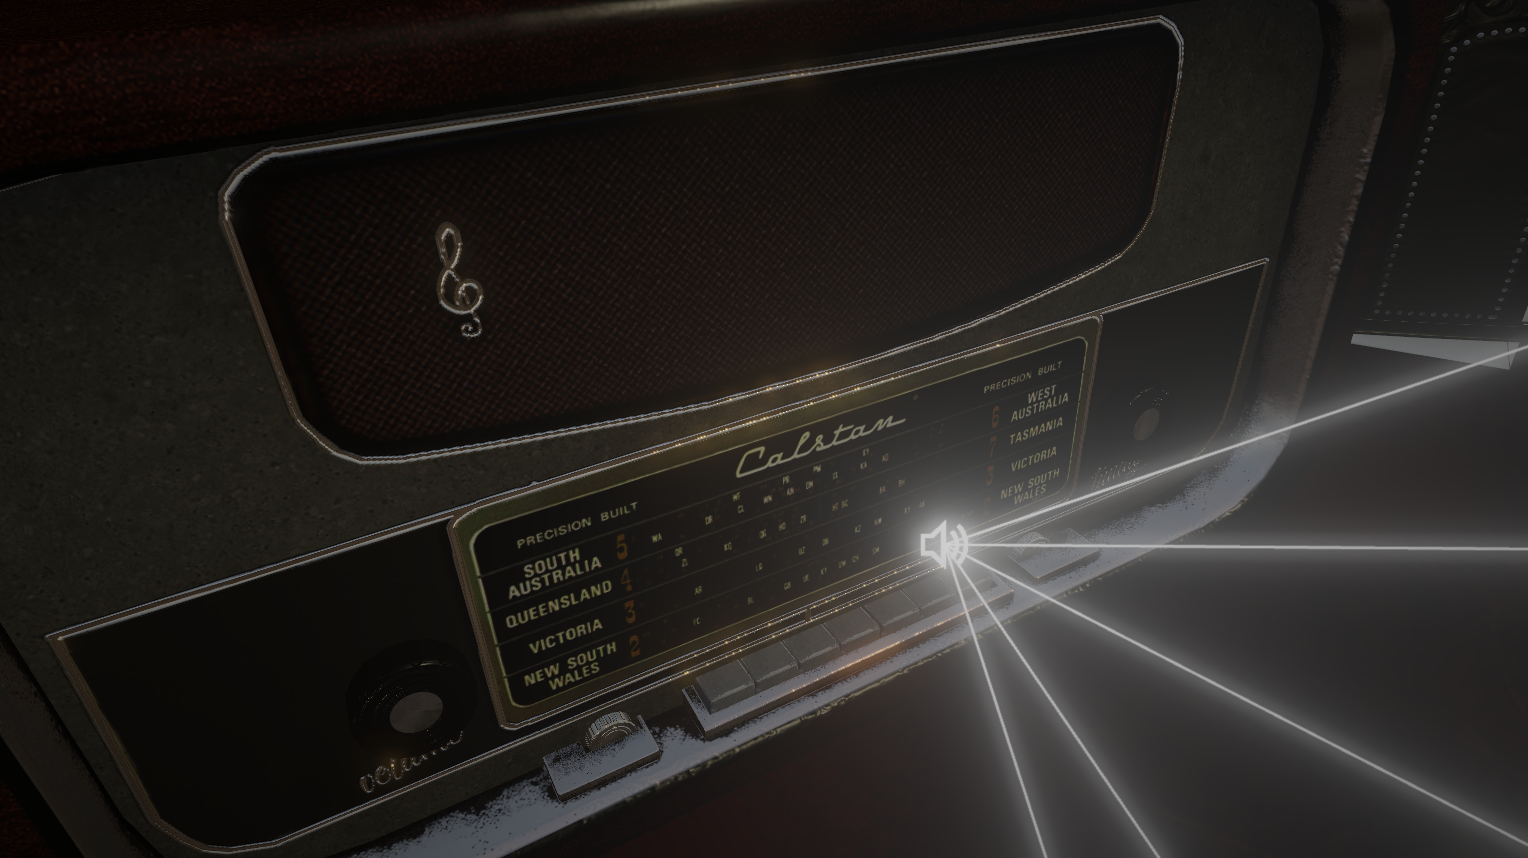
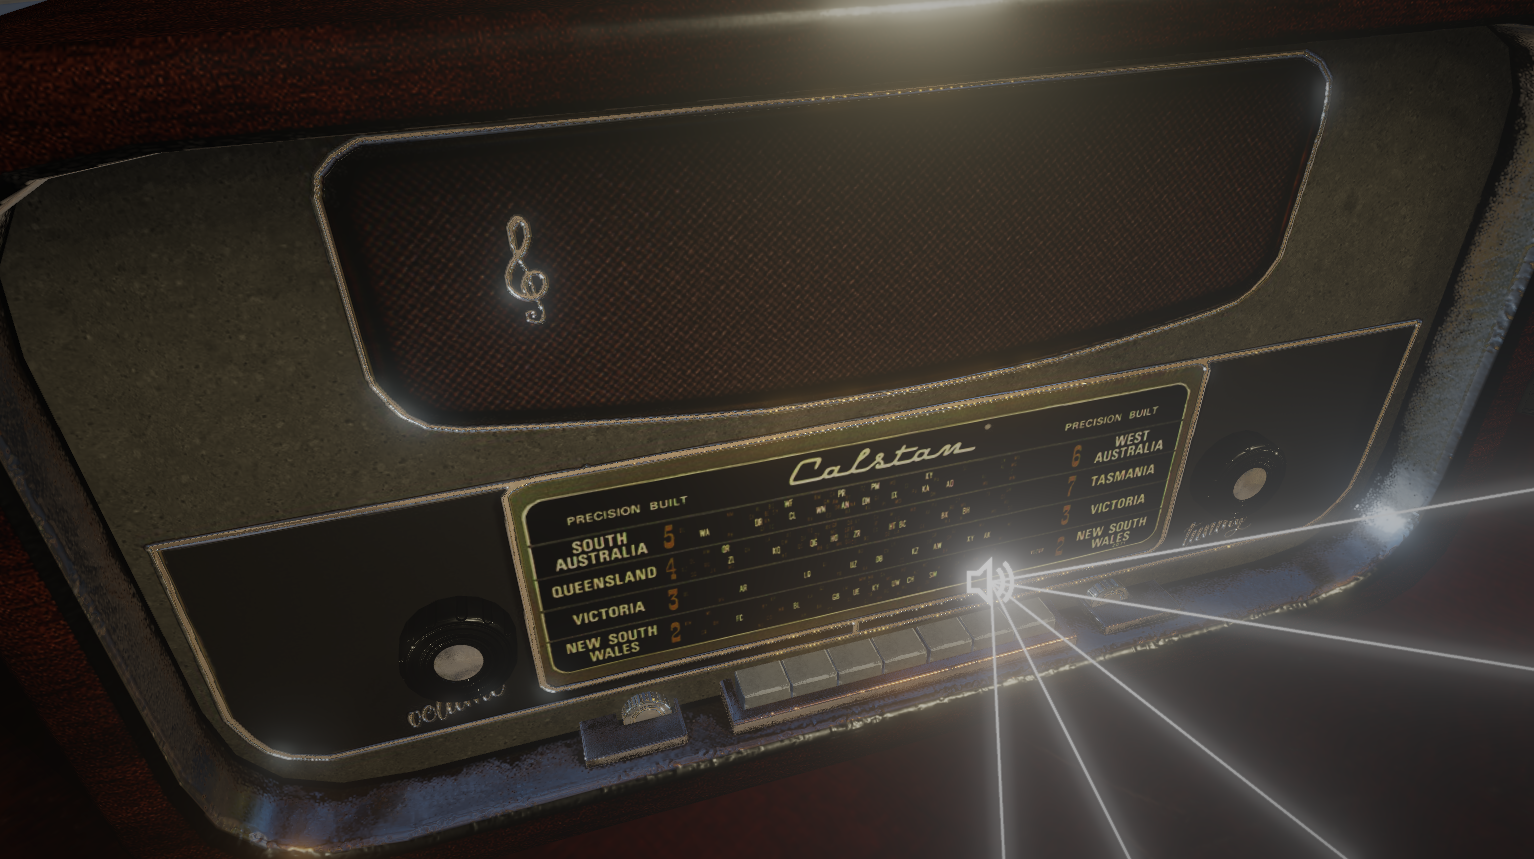
readme

diff --git a/src/game.cpp b/src/game.cpp
@@ -187,14 +187,14 @@ Game::Game(int clientWidth, int clientHeight) :
 	
 	scenes[scenes.size()-1]->setActiveCamera(0);
 
-	scenes[scenes.size()-1]->addPointLight(SHADOW_QUALITY::HIGH, glm::vec3(0.0f, 7.0f, 5.0f), glm::vec3(0.25f), glm::vec3(1.75f, 1.5f, 0.9f), glm::vec3(1.0f), 1.0f, 0.07f, 0.014f);
+	scenes[scenes.size()-1]->addPointLight(SHADOW_QUALITY::HIGH, glm::vec3(0.0f, 7.0f, 5.0f), glm::vec3(0.25f), glm::vec3(1.75f, 1.5f, 0.9f)*5.0f, glm::vec3(1.0f), 1.0f, 0.07f, 0.014f);
 
 	scenes[0]->addObject("assets/radio/radio.glb", glm::mat4(1.0f));
 	scenes[0]->addAudioFile("assets/radio/cantina.wav");
 	scenes[0]->addSoundSource(glm::vec3(-0.2f, 2.4f, 0.5f), glm::vec3(-0.25f, 0.0f, 1.0f), 90.0f, 360.0f, 10.0f, false);
 	scenes[0]->playSound(0, 0);
 
-	scenes[scenes.size()-1]->setIBL("assets/HDRIs/sky.hdr", true, clientWidth, clientHeight);
+	scenes[scenes.size()-1]->setIBL("assets/HDRIs/bridge.hdr", true, clientWidth, clientHeight);
 	scenes[scenes.size()-1]->setGridAxis(20);
 }
 

diff --git a/src/main.cpp b/src/main.cpp
@@ -116,7 +116,7 @@ void render(std::unique_ptr<WindowManager> client, std::unique_ptr<Game> game)
 			vehicleCallback(client, game);
 
 		// draw scene
-		game->draw(delta, client->getWidth(), client->getHeight(), DRAWING_MODE::SOLID, false, false);
+		game->draw(delta, client->getWidth(), client->getHeight(), DRAWING_MODE::SOLID, true, false);
 
 		client->resetEvents();
 		SDL_GL_SwapWindow(client->getWindowPtr());
